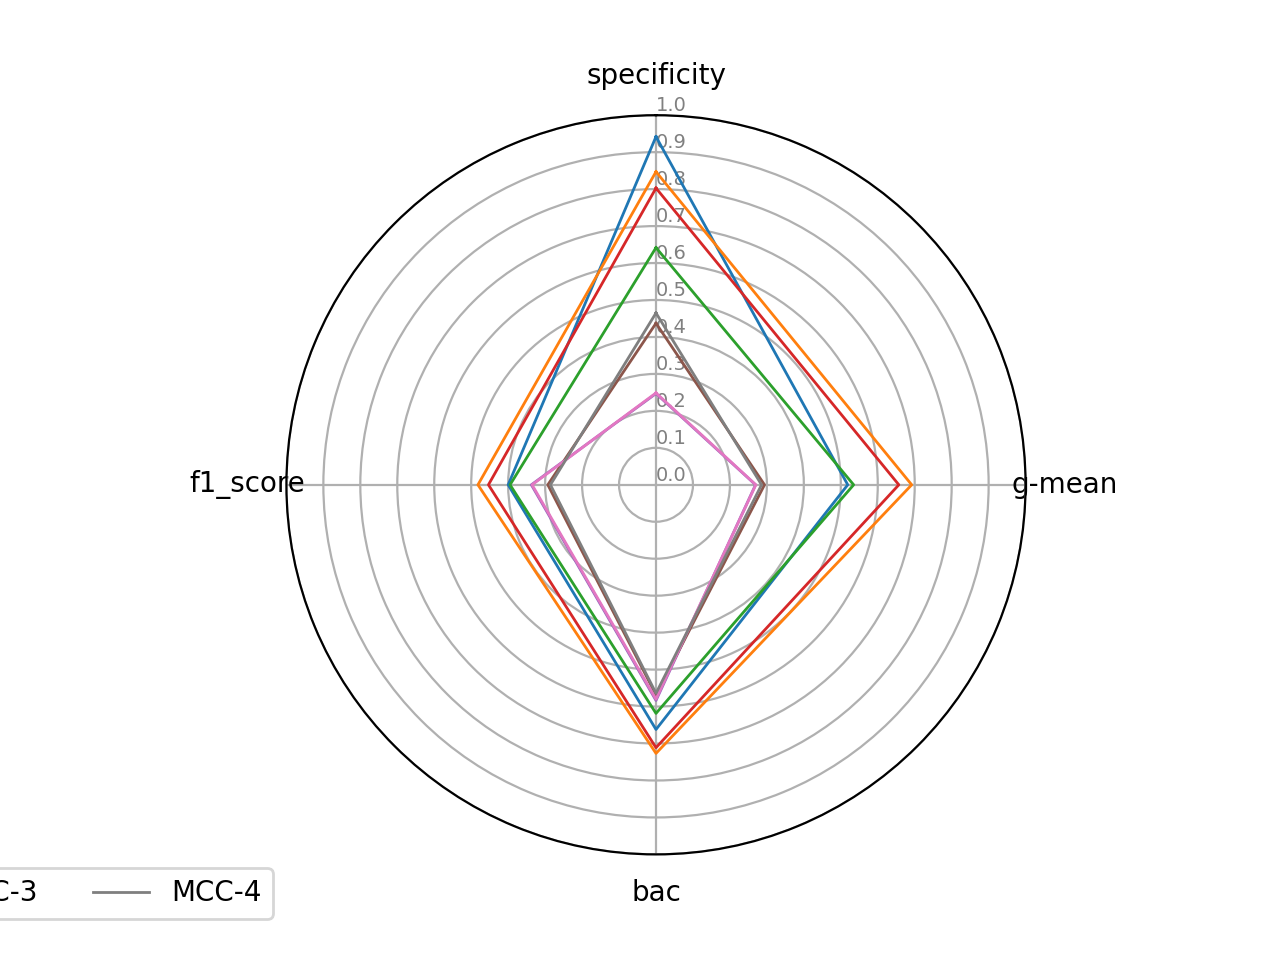
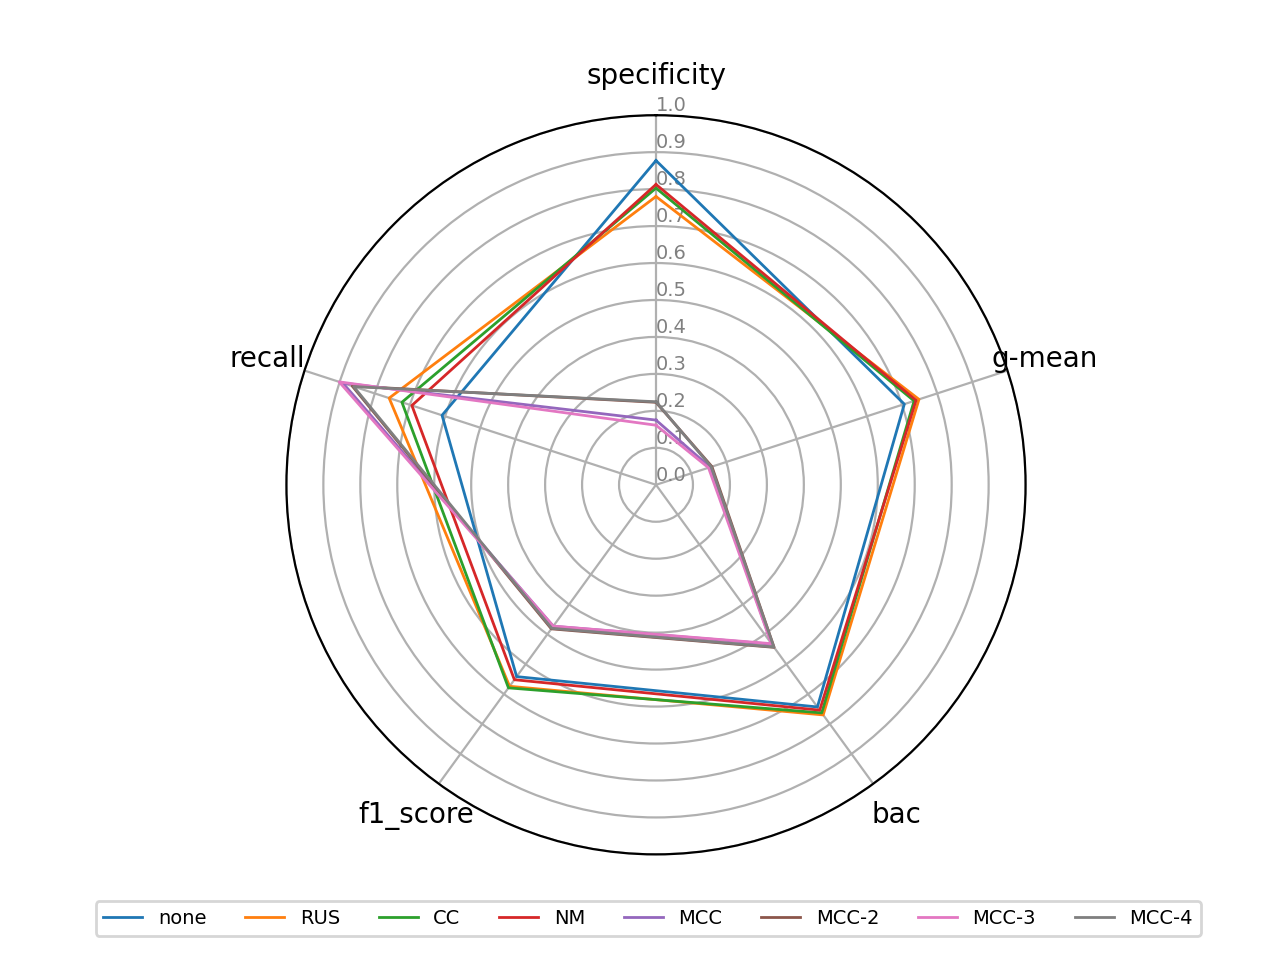
Realease v1

diff --git a/RadarGraph.py b/RadarGraph.py
@@ -13,7 +13,7 @@ scores = np.mean(scores, axis=2).T
 
 
 methods = ['none','RUS' ,'CC', 'NM', 'MCC', 'MCC-2', 'MCC-3', 'MCC-4']
-metrics = ['specificity','g-mean','bac', 'f1_score']
+metrics = ['specificity','g-mean','bac', 'f1_score', 'recall']
 N = scores.shape[0]
 
 angles = [n / float(N) * 2 * pi for n in range(N)]
@@ -43,6 +43,6 @@ for method_id, method in enumerate(methods):
     ax.plot(angles, values, linewidth=1, linestyle='solid', label=method)
 
 # Dodajemy legende
-plt.legend(bbox_to_anchor=(0, 0), ncol=8)
+plt.legend(bbox_to_anchor=(1.25, -0.05), ncol=8, fontsize=7)
 # Zapisujemy wykres
 plt.savefig("Results/radar", dpi=200)

diff --git a/MetricEvaluate.py b/MetricEvaluate.py
@@ -44,7 +44,7 @@ mrts = {
 }
 
 # Zbiór danych
-datasets = ['kc1', 'kc2', 'kc3']
+datasets = ['cpu_act','cpu_small','datatrieve', 'german','house_8L','kc1','kc2','kc3','schlvote','sick_numeric']
 
 if __name__ =='__main__':
     # Walidacja krzyzowa
